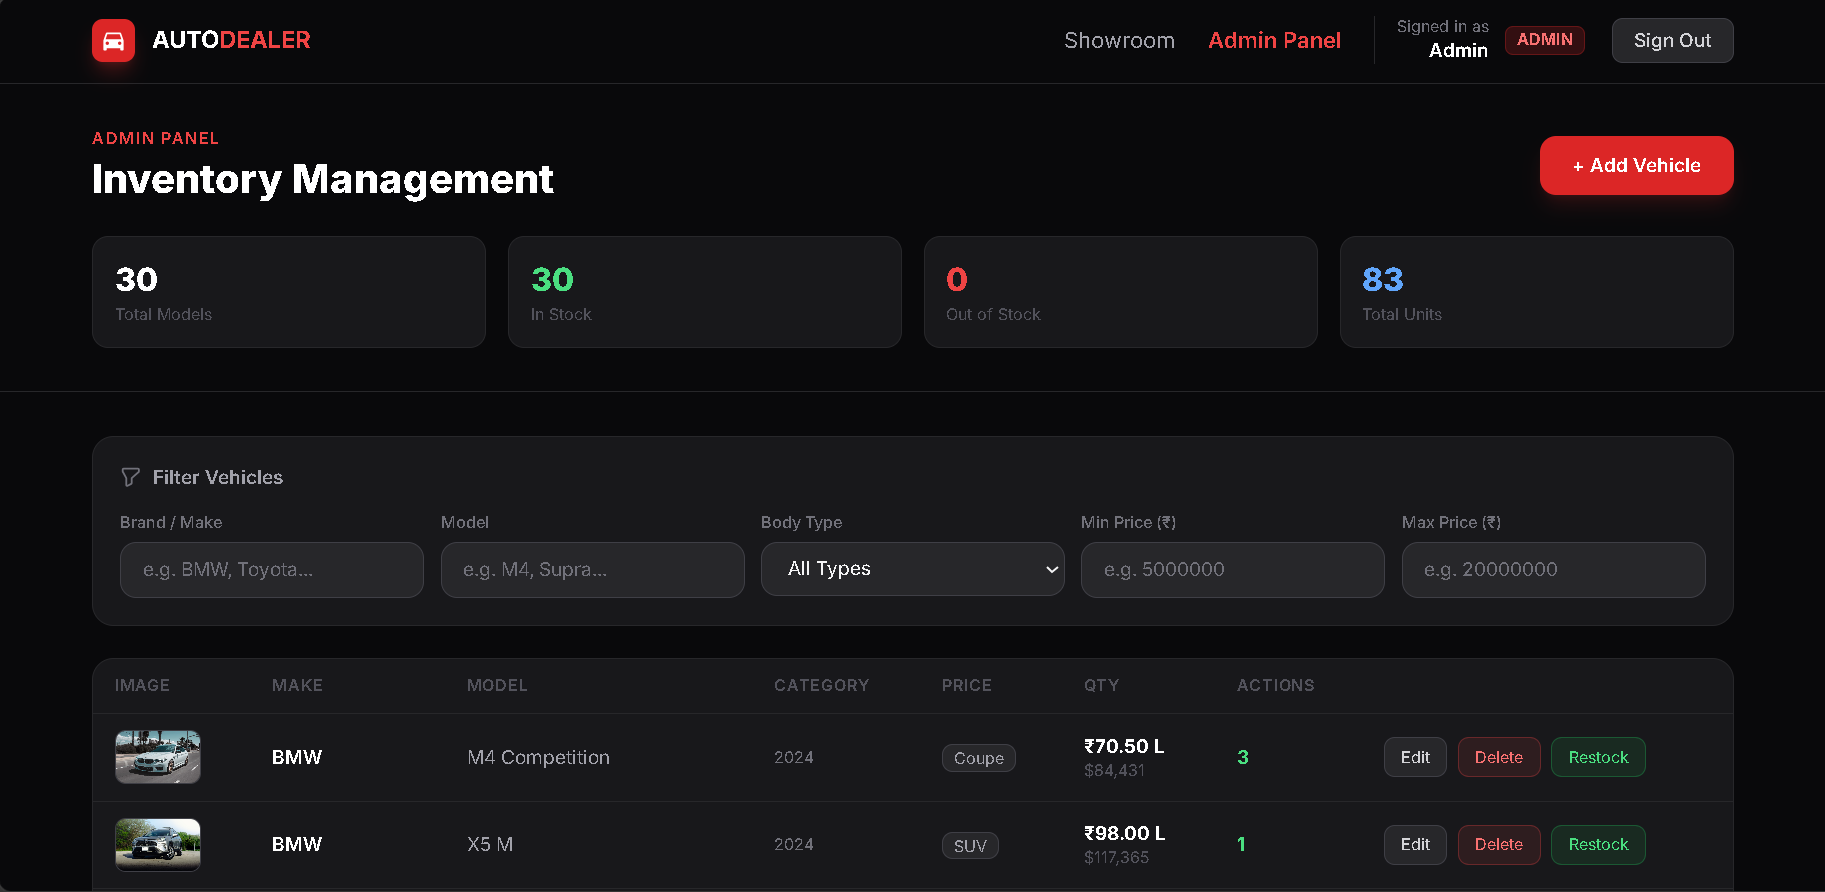
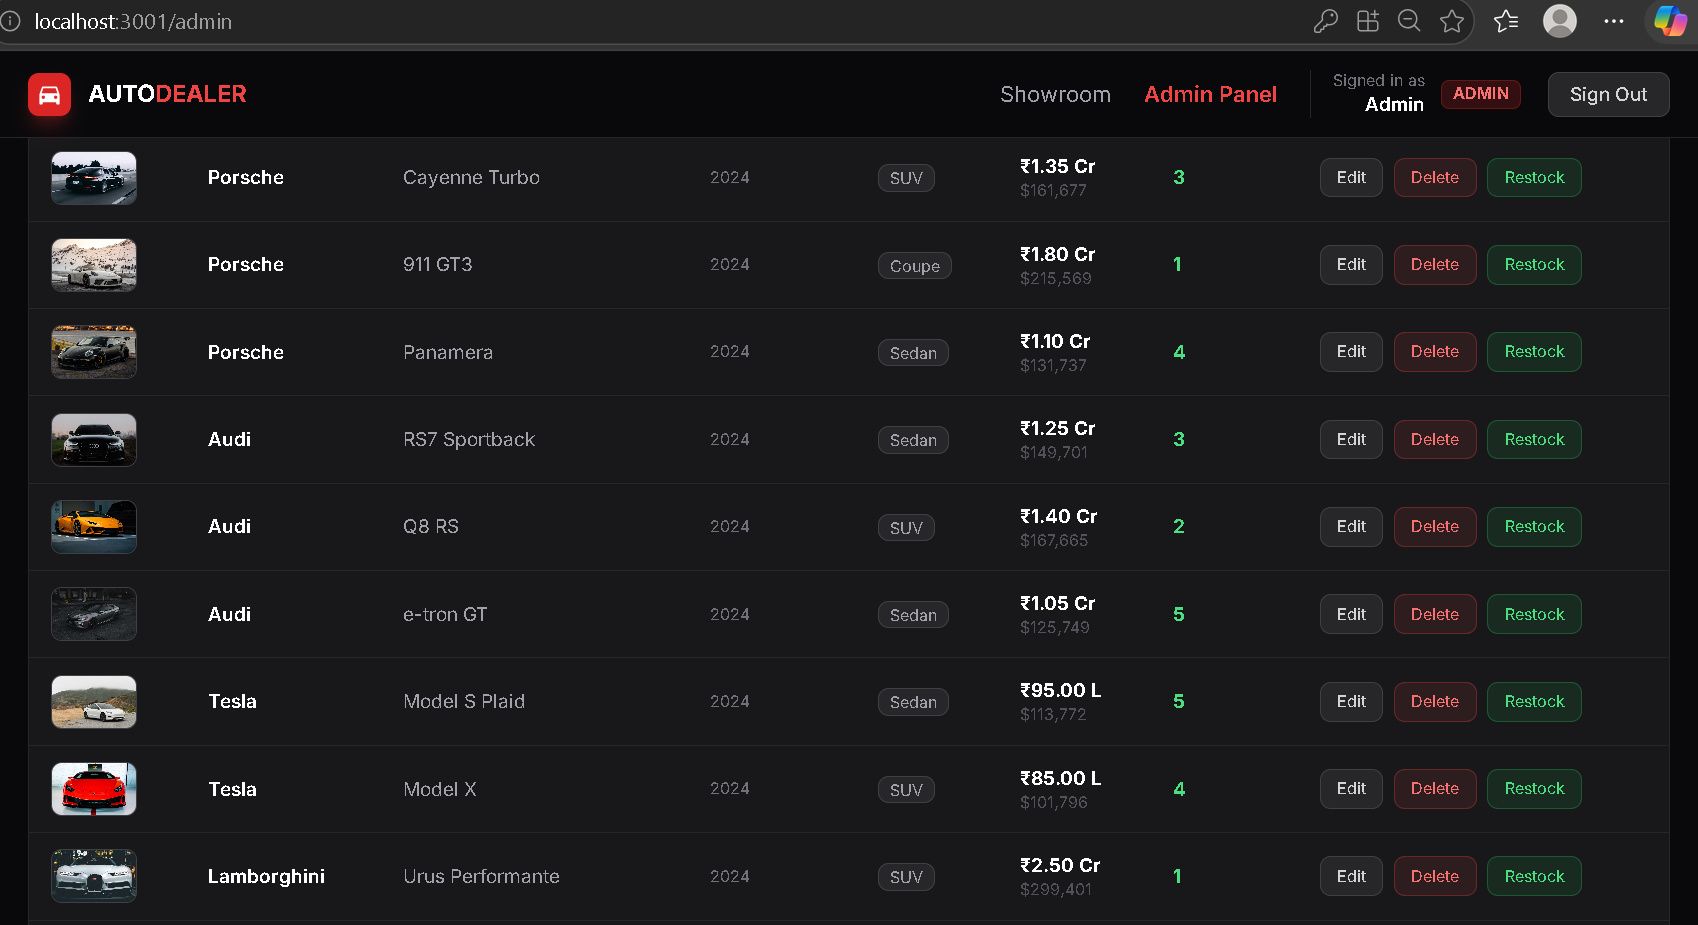
README.md file update

diff --git a/README.md b/README.md
@@ -151,19 +151,20 @@ The client opens at `http://localhost:3001` and proxies API calls to port 3000.
 ## API Endpoints
 
 | Method | Endpoint | Access | Description |
-| --- | --- | --- |
-| GET | `/health` | Public | Health check |
-| POST | `/api/auth/register` | Public | Create a user account |
-| POST | `/api/auth/login` | Public | Return a JWT |
-| GET | `/api/auth/me` | Authenticated | Return the signed-in user |
-| GET | `/api/vehicles` | Public | List vehicles |
-| GET | `/api/vehicles/search` | Public | Filter by `make`, `model`, `category`, `minPrice`, `maxPrice` |
-| GET | `/api/vehicles/:id` | Public | Vehicle and similar models |
-| POST | `/api/vehicles` | Admin | Add a vehicle |
-| PUT | `/api/vehicles/:id` | Admin | Update a vehicle |
-| DELETE | `/api/vehicles/:id` | Admin | Delete a vehicle |
-| POST | `/api/vehicles/:id/purchase` | Authenticated | Purchase one in-stock vehicle |
-| POST | `/api/vehicles/:id/restock` | Admin | Increase stock (`{ "amount": number }`) |
+|--------|----------|--------|-------------|
+| `GET` | `/health` | Public | Health check |
+| `POST` | `/api/auth/register` | Public | Create a new user account |
+| `POST` | `/api/auth/login` | Public | Authenticate user and return JWT |
+| `GET` | `/api/auth/me` | Authenticated | Return the currently signed-in user |
+| `GET` | `/api/vehicles` | Public | List all vehicles |
+| `GET` | `/api/vehicles/search` | Public | Search and filter vehicles |
+| `GET` | `/api/vehicles/:id` | Public | Get vehicle details and similar models |
+| `POST` | `/api/vehicles` | Admin | Add a new vehicle |
+| `PUT` | `/api/vehicles/:id` | Admin | Update vehicle details |
+| `DELETE` | `/api/vehicles/:id` | Admin | Delete a vehicle |
+| `POST` | `/api/vehicles/:id/purchase` | Authenticated | Purchase an in-stock vehicle |
+| `POST` | `/api/vehicles/:id/restock` | Admin | Increase vehicle stock |
+
 
 ## Authentication and Security
 
